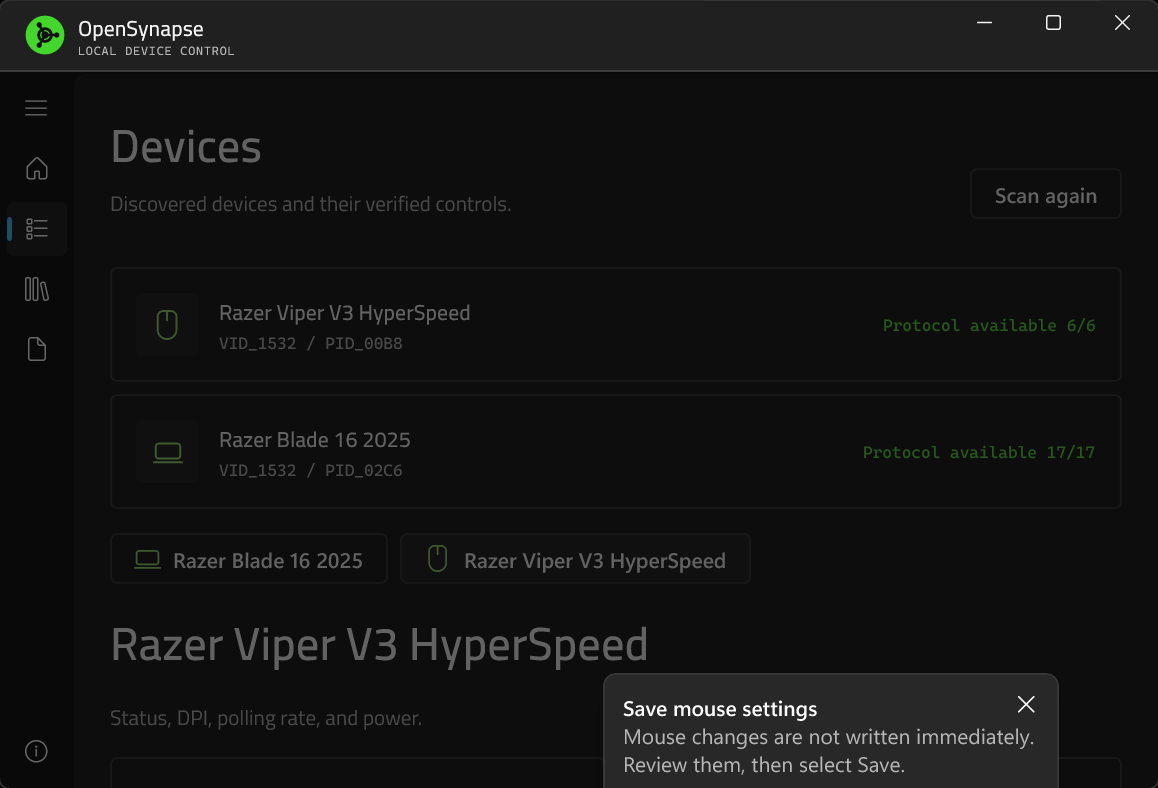
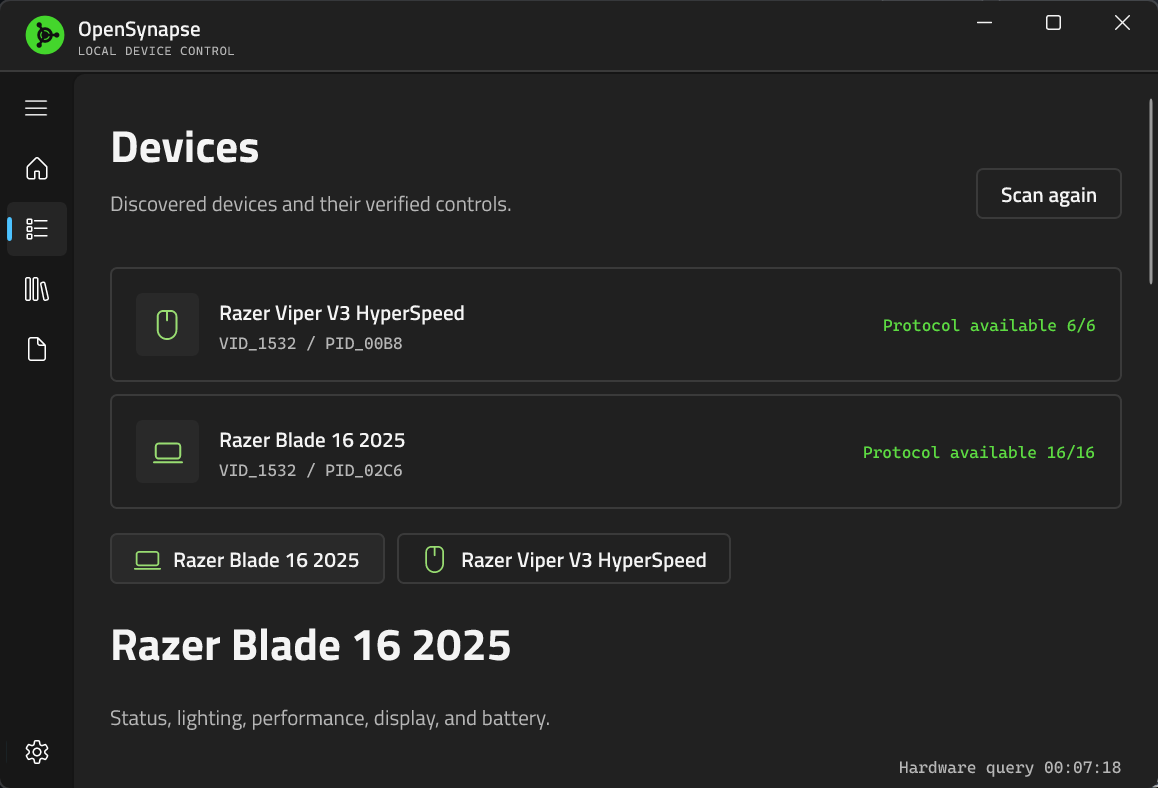
docs: rebuild bilingual project readme

diff --git a/README.md b/README.md
@@ -1,68 +1,89 @@
-# OpenSynapse
+<p align="center">
+  <img src="src/OpenSynapse.App/Assets/OpenSynapseLogo.svg" width="112" height="112" alt="OpenSynapse Logo">
+</p>
 
-[English](README.en.md) | 简体中文
+<h1 align="center">OpenSynapse</h1>
 
-OpenSynapse 是一款面向 Windows 11 的轻量级 Razer 设备控制工具。它可以在不让雷云常驻的情况下，管理已验证设备的灯光、性能和常用设置。
+<p align="center">面向 Windows 11 的轻量级 Razer 设备控制工具。</p>
 
-当前版本为 `1.0.2`，只支持经过实机验证的具体设备。OpenSynapse 不会根据相近型号猜测协议，也不会向未知设备发送控制命令。
+<p align="center">
+  <a href="https://github.com/A1mAssist/OpenSynapse/releases/latest"><img alt="最新版本" src="https://img.shields.io/github/v/release/A1mAssist/OpenSynapse?style=flat-square"></a>
+  <a href="LICENSE"><img alt="MIT License" src="https://img.shields.io/badge/license-MIT-44D62C?style=flat-square"></a>
+  <img alt="Windows 11 x64" src="https://img.shields.io/badge/Windows-11%20x64-0078D4?style=flat-square">
+</p>
+
+<p align="center">简体中文 · <a href="README.en.md">English</a></p>
+
+OpenSynapse 可以在不让 Razer Synapse 常驻的情况下，读取设备状态并管理经过实机验证的灯光、性能、显示、电池和按键功能。它不会根据相近型号猜测协议，也不会向未知设备发送控制命令。
+
+> 当前稳定版本：`v1.1.0`。仅支持下方列出的具体硬件与 USB 标识。
 
 ## 支持设备
 
-| 设备 | USB VID:PID | 状态 |
+| 设备 | USB VID:PID | 已验证能力 |
 |---|---|---|
-| Razer Blade 16 (2025) | `1532:02C6` | 已支持 |
-| Razer Viper V3 HyperSpeed | `1532:00B8` | 已支持 |
+| Razer Blade 16 (2025) | `1532:02C6` | 遥测、灯光、性能、风扇、显示、电池、Fn/M3/M4/M5 |
+| Razer Viper V3 HyperSpeed | `1532:00B8` | 电量、DPI、轮询率、休眠、板载按键映射 |
 
-## 主要功能
+## 功能
 
-### Blade 16 (2025)
+### Razer Blade 16 (2025)
 
 - 读取 CPU、GPU、内存、磁盘、风扇和设备状态。
-- 调整键盘亮度和 13 种键盘灯效：关闭、静态、呼吸、光谱循环、波浪、火焰、响应、涟漪、音频律动、环境感知、色轮、星光和双色潮汐。
-- 切换性能模式，并在 Custom 模式下调整 CPU Boost、GPU Boost 和 Max Fan。
-- 设置 `50%` 至 `80%` 的充电上限，或关闭限制。
-- 调整 Windows 内置屏支持的刷新率，切换触控板。
-- 后台处理已验证的 Fn 组合键、M3 游戏模式、M4 性能模式和 M5 麦克风静音指示灯。
-- 只读显示面板模式、SKU、Local Dimming 等平台状态。
+- 调整键盘亮度，并使用关闭、静态、呼吸、光谱循环、波浪、火焰、响应、涟漪、音频律动、环境感知、色轮、星光和双色潮汐灯效。
+- 切换性能模式；在自定义模式下调整 CPU Boost、GPU Boost 和 Max Fan。
+- 使用自动风扇或手动风扇控制，设置 `50%` 至 `80%` 的充电上限。
+- 切换内置显示器支持的刷新率和触控板状态。
+- 后台处理已验证的 Fn 组合键、M3 游戏模式、M4 性能模式以及 M5 麦克风静音指示灯。
+- 显示面板模式、SKU 等只读平台状态。
 
-### Viper V3 HyperSpeed
+### Razer Viper V3 HyperSpeed
 
 - 读取电量、低电量阈值、轮询率、当前 DPI、休眠时间和 DPI 档位。
-- 调整 `125 / 500 / 1000 Hz` 轮询率。
-- 调整 `100..30000`、步进 `50` 的 X/Y DPI，配置最多 5 档 DPI。
-- 读取并编辑固定 Profile 1 的 Normal / HyperShift 板载映射。
+- 设置 `125 / 500 / 1000 Hz` 轮询率。
+- 设置 `100..30000`、步进 `50` 的 X/Y DPI，并配置最多 5 档 DPI。
+- 读取和编辑固定 Profile 1 的 Normal / HyperShift 板载映射。
 - 支持关闭、鼠标键、键盘按键和双击等已验证映射动作。
 
-低电量阈值仅展示，不提供写入。当前设备不支持 `2000 / 4000 / 8000 Hz` HyperPolling。
+低电量阈值保持只读；Viper V3 HyperSpeed 不支持 `2000 / 4000 / 8000 Hz` HyperPolling。
 
 ## 界面预览
 
-![OpenSynapse 中文 Viper 配置页](screenshots/viper-mappings-zh.png)
+| 概览 | 设备 |
+|---|---|
+| ![OpenSynapse 中文概览页面](screenshots/overview-zh.png) | ![OpenSynapse 中文设备页面](screenshots/devices-zh.png) |
 
-## 安装与运行
+| Blade 控制 | 设置 |
+|---|---|
+| ![OpenSynapse 中文 Blade 控制页面](screenshots/blade-zh.png) | ![OpenSynapse 中文设置页面](screenshots/settings-zh.png) |
 
-1. 从 [Releases](https://github.com/A1mAssist/OpenSynapse/releases) 下载最新的 `OpenSynapse-win-Setup.exe`。
-2. 运行安装包；应用安装到当前用户目录，不需要管理员权限。
-3. 便携版仍可使用，但旧压缩包不支持应用内自动更新。
+## 安装
 
-首次探测设备时建议退出 Razer Synapse。两者可能争用同一个 HID 控制通道；OpenSynapse 会报告访问失败，但不会结束 Synapse 进程。
+1. 从 [GitHub Releases](https://github.com/A1mAssist/OpenSynapse/releases/latest) 下载 `OpenSynapse-win-Setup.exe`。
+2. 运行安装包。应用安装到当前用户目录，不需要管理员权限。
+3. 如需免安装使用，可下载 `OpenSynapse-win-Portable.zip`；自动更新功能仅面向安装版。
 
-OpenSynapse 不需要 Razer Synapse、AppEngine 或 `mapping_engine.dll`。Blade 的 Fn、M3、M4 和 M5 功能仍依赖 Product 710 的 Razer 设备驱动；卸载 Synapse 时请保留这些驱动。驱动不属于 OpenSynapse，仓库和发布包均不分发。
+首次探测设备前建议退出 Razer Synapse，避免两个程序争用同一个 HID 控制通道。OpenSynapse 会报告访问失败，但不会结束 Synapse 进程。
 
-## 明确不在当前范围内
+### 驱动边界
+
+OpenSynapse 不需要 Razer Synapse、AppEngine 或 `mapping_engine.dll`。Blade 的 Fn、M3、M4 和 M5 功能仍需要 Product 710 的 Razer 设备驱动；卸载 Synapse 时请保留相关驱动。OpenSynapse 不分发 Razer 驱动。
+
+## 当前不包含
 
 - 固件更新、Razer 账号和云服务。
 - THX Spatial Audio、EQ、音量均衡和语音清晰度。
 - Chroma Studio、高级宏编辑器、GPU MUX 和 AMD Curve Optimizer。
-- 未经验证的电池策略写入，以及 Viper 低电量阈值、电池类型和 `2K / 4K / 8K` 轮询率写入。
+- 未经实机验证的设备或协议写入。
 
 ## 从源码构建
 
-需要 Windows 11 x64、.NET 10 SDK 和 Windows SDK `10.0.26100`。
+需要 Windows 11 x64、[.NET 10 SDK](https://dotnet.microsoft.com/download/dotnet/10.0) 和 Windows SDK `10.0.26100`。
 
 ```powershell
 dotnet restore OpenSynapse.slnx
 dotnet build OpenSynapse.slnx -c Release
+dotnet test OpenSynapse.slnx -c Release --no-build
 dotnet build src/OpenSynapse.App/OpenSynapse.App.csproj -c Release -p:Platform=x64
 ```
 
@@ -75,10 +96,14 @@ dotnet build src/OpenSynapse.App/OpenSynapse.App.csproj -c Release -p:Platform=x
 生成安装包、便携包和 Velopack 更新资产：
 
 ```powershell
-.\scripts\Publish-VelopackRelease.ps1 -Version 1.0.3
+.\scripts\Publish-VelopackRelease.ps1 -Version 1.1.0
 ```
 
-设置 `GITHUB_TOKEN` 后追加 `-Upload`，即可创建公开 GitHub Release 并上传更新源资产。
+发布包没有代码签名证书，Windows SmartScreen 可能显示警告。
+
+## 参与贡献
+
+提交源码、测试或文档前请阅读 [CONTRIBUTING.md](CONTRIBUTING.md)。构建输出、日志、抓包、逆向工程目录、私钥、令牌和本机配置不得提交到仓库。
 
 ## 许可与致谢
 
@@ -86,4 +111,4 @@ dotnet build src/OpenSynapse.App/OpenSynapse.App.csproj -c Release -p:Platform=x
 
 协议实现参考并交叉验证了 [OpenRazer](https://github.com/openrazer/openrazer)、[OpenRGB](https://gitlab.com/CalcProgrammer1/OpenRGB) 及其他公开实现。OpenSynapse 与 Razer Inc. 无隶属或认可关系，Razer 及相关产品名称是其各自所有者的商标。
 
-Made with ❤ in C# by [A1mAssist](https://github.com/A1mAssist)。
+Made with ❤ in C# by [A1mAssist](https://github.com/A1mAssist).

diff --git a/README.en.md b/README.en.md
@@ -1,31 +1,43 @@
-# OpenSynapse
+<p align="center">
+  <img src="src/OpenSynapse.App/Assets/OpenSynapseLogo.svg" width="112" height="112" alt="OpenSynapse Logo">
+</p>
 
-English | [简体中文](README.md)
+<h1 align="center">OpenSynapse</h1>
 
-OpenSynapse is a lightweight Razer device controller for Windows 11. It manages verified lighting, performance, and everyday settings without requiring Razer Synapse to remain running.
+<p align="center">A lightweight Razer device controller for Windows 11.</p>
 
-The current release is `1.0.2` and supports only the exact devices verified on hardware. OpenSynapse does not infer protocols from similar model names and does not send control commands to unknown devices.
+<p align="center">
+  <a href="https://github.com/A1mAssist/OpenSynapse/releases/latest"><img alt="Latest release" src="https://img.shields.io/github/v/release/A1mAssist/OpenSynapse?style=flat-square"></a>
+  <a href="LICENSE"><img alt="MIT License" src="https://img.shields.io/badge/license-MIT-44D62C?style=flat-square"></a>
+  <img alt="Windows 11 x64" src="https://img.shields.io/badge/Windows-11%20x64-0078D4?style=flat-square">
+</p>
+
+<p align="center"><a href="README.md">简体中文</a> · English</p>
+
+OpenSynapse reads device state and manages hardware-verified lighting, performance, display, battery, and key functions without keeping Razer Synapse running. It never infers protocols from similar model names or sends control commands to unknown devices.
+
+> Current stable release: `v1.1.0`. Only the exact hardware and USB identifiers listed below are supported.
 
 ## Supported devices
 
-| Device | USB VID:PID | Status |
+| Device | USB VID:PID | Verified capabilities |
 |---|---|---|
-| Razer Blade 16 (2025) | `1532:02C6` | Supported |
-| Razer Viper V3 HyperSpeed | `1532:00B8` | Supported |
+| Razer Blade 16 (2025) | `1532:02C6` | Telemetry, lighting, performance, fans, display, battery, Fn/M3/M4/M5 |
+| Razer Viper V3 HyperSpeed | `1532:00B8` | Battery, DPI, polling, sleep, onboard button mappings |
 
 ## Features
 
-### Blade 16 (2025)
+### Razer Blade 16 (2025)
 
 - Read CPU, GPU, memory, storage, fan, and device status.
-- Adjust keyboard brightness and use 13 keyboard effects: Off, Static, Breathing, Spectrum, Wave, Fire, Reactive, Ripple, Audio Meter, Ambient, Wheel, Starlight, and two-color Tidal.
+- Adjust keyboard brightness and use Off, Static, Breathing, Spectrum, Wave, Fire, Reactive, Ripple, Audio Meter, Ambient, Wheel, Starlight, and two-color Tidal effects.
 - Select performance modes and configure CPU Boost, GPU Boost, and Max Fan in Custom mode.
-- Set a charge limit from `50%` to `80%`, or disable the limit.
-- Select a refresh rate supported by the Windows internal display and toggle the touchpad.
+- Use automatic or manual fan control and set a charge limit from `50%` to `80%`.
+- Select a refresh rate supported by the internal display and toggle the touchpad.
 - Handle verified Fn shortcuts, M3 Gaming Mode, M4 performance mode, and the M5 microphone-mute indicator in the background.
-- Show panel mode, SKU, Local Dimming, and other platform fields as read-only state.
+- Show panel mode, SKU, and other platform fields as read-only state.
 
-### Viper V3 HyperSpeed
+### Razer Viper V3 HyperSpeed
 
 - Read battery level, low-battery threshold, polling rate, current DPI, sleep timeout, and DPI stages.
 - Set `125 / 500 / 1000 Hz` polling.
@@ -33,36 +45,45 @@ The current release is `1.0.2` and supports only the exact devices verified on h
 - Read and edit Normal / HyperShift onboard mappings in fixed Profile 1.
 - Use verified Off, mouse-button, keyboard-key, and double-click mapping actions.
 
-The low-battery threshold is read only. This device does not support `2000 / 4000 / 8000 Hz` HyperPolling.
+The low-battery threshold remains read only. Viper V3 HyperSpeed does not support `2000 / 4000 / 8000 Hz` HyperPolling.
 
-## Interface preview
+## Screenshots
 
-![OpenSynapse English device page](screenshots/devices-en.png)
+| Overview | Devices |
+|---|---|
+| ![OpenSynapse English overview page](screenshots/overview-en.png) | ![OpenSynapse English devices page](screenshots/devices-en.png) |
 
-## Install and run
+| Blade controls | Settings |
+|---|---|
+| ![OpenSynapse English Blade controls](screenshots/blade-en.png) | ![OpenSynapse English settings page](screenshots/settings-en.png) |
 
-1. Download the latest `OpenSynapse-win-Setup.exe` from [Releases](https://github.com/A1mAssist/OpenSynapse/releases).
+## Installation
+
+1. Download `OpenSynapse-win-Setup.exe` from [GitHub Releases](https://github.com/A1mAssist/OpenSynapse/releases/latest).
 2. Run the installer. OpenSynapse installs for the current user and does not require administrator privileges.
-3. A portable build remains available, but older archive builds cannot use in-app updates.
+3. For a no-install build, download `OpenSynapse-win-Portable.zip`. Automatic updates are intended for the installed build.
 
-Exit Razer Synapse before the first device scan. Both applications can contend for the same HID control channel. OpenSynapse reports access failures but never terminates the Synapse process.
+Exit Razer Synapse before the first device scan to avoid both applications contending for the same HID control channel. OpenSynapse reports access failures but never terminates the Synapse process.
 
-OpenSynapse does not require Razer Synapse, AppEngine, or `mapping_engine.dll`. Blade Fn, M3, M4, and M5 support still requires the Product 710 Razer device drivers; keep those drivers installed when removing Synapse. The drivers are not part of OpenSynapse and are not redistributed in the repository or release archive.
+### Driver boundary
+
+OpenSynapse does not require Razer Synapse, AppEngine, or `mapping_engine.dll`. Blade Fn, M3, M4, and M5 support still requires the Product 710 Razer device drivers; keep those drivers when removing Synapse. OpenSynapse does not redistribute Razer drivers.
 
 ## Out of scope
 
 - Firmware updates, Razer accounts, and cloud services.
 - THX Spatial Audio, EQ, volume leveling, and voice clarity.
 - Chroma Studio, advanced macro editing, GPU MUX, and AMD Curve Optimizer.
-- Unverified battery-policy writes, plus Viper low-battery threshold, battery type, and `2K / 4K / 8K` polling writes.
+- Writes for devices or protocols that have not passed hardware validation.
 
 ## Build from source
 
-Building requires Windows 11 x64, the .NET 10 SDK, and Windows SDK `10.0.26100`.
+Building requires Windows 11 x64, the [.NET 10 SDK](https://dotnet.microsoft.com/download/dotnet/10.0), and Windows SDK `10.0.26100`.
 
 ```powershell
 dotnet restore OpenSynapse.slnx
 dotnet build OpenSynapse.slnx -c Release
+dotnet test OpenSynapse.slnx -c Release --no-build
 dotnet build src/OpenSynapse.App/OpenSynapse.App.csproj -c Release -p:Platform=x64
 ```
 
@@ -72,13 +93,17 @@ Run the local build:
 & '.\src\OpenSynapse.App\bin\x64\Release\net10.0-windows10.0.26100.0\OpenSynapse.App.exe'
 ```
 
-Build the installer, portable package, and Velopack update assets:
+Build the installer, portable archive, and Velopack update assets:
 
 ```powershell
-.\scripts\Publish-VelopackRelease.ps1 -Version 1.0.3
+.\scripts\Publish-VelopackRelease.ps1 -Version 1.1.0
 ```
 
-Set `GITHUB_TOKEN` and add `-Upload` to create a public GitHub Release and upload the update feed assets.
+Release packages are not code signed, so Windows SmartScreen may display a warning.
+
+## Contributing
+
+Read [CONTRIBUTING.md](CONTRIBUTING.md) before submitting source, tests, or documentation. Build output, logs, captures, reverse-engineering workspaces, private keys, tokens, and machine-local configuration must never be committed.
 
 ## License and acknowledgements
 

diff --git a/CONTRIBUTING.md b/CONTRIBUTING.md
@@ -1,0 +1,64 @@
+# Contributing to OpenSynapse
+
+OpenSynapse controls real hardware. Keep changes small, traceable, and backed by tests or hardware evidence.
+
+## What belongs in Git
+
+Commit only files needed to build, test, document, or license the project:
+
+- source code and project files;
+- tests and deterministic test data;
+- device manifests and verified runtime configuration;
+- documentation, localized screenshots, product artwork, and third-party license files;
+- release/build scripts that contain no credentials or machine-specific paths.
+
+Do not commit:
+
+- `bin`, `obj`, `artifacts`, `dist`, `TestResults`, coverage output, installers, portable archives, NuGet packages, executables, DLLs, PDBs, or generated WinUI files;
+- `.vs`, `.idea`, `.vscode`, user settings, caches, temporary files, dumps, logs, ETW traces, USB captures, or local diagnostics;
+- Ghidra projects, extracted proprietary application files, reverse-engineering workspaces, or unreviewed protocol captures;
+- API tokens, passwords, private keys, signing certificates, `.env` files, device paths, usernames, or absolute paths tied to one workstation;
+- Razer binaries, drivers, firmware, or other proprietary files that the project is not licensed to redistribute.
+
+Release binaries belong on GitHub Releases, not in Git history.
+
+## Screenshots and documentation
+
+- Store README screenshots in `screenshots/`.
+- Use explicit language suffixes such as `-zh.png` and `-en.png`.
+- Remove personal information, notifications, account identifiers, device serial numbers, and unrelated windows before committing.
+- Keep `README.md` and `README.en.md` aligned, while using screenshots from the matching language only.
+- Reuse `src/OpenSynapse.App/Assets/OpenSynapseLogo.svg` as the canonical product logo.
+
+## Before every commit
+
+Run the smallest relevant tests, then run these repository checks from PowerShell:
+
+```powershell
+git status --short --untracked-files=all
+git diff --check
+dotnet test OpenSynapse.slnx -c Release
+```
+
+For application or packaging changes, also run:
+
+```powershell
+dotnet build src/OpenSynapse.App/OpenSynapse.App.csproj -c Release -p:Platform=x64
+```
+
+Review the staged file list before committing:
+
+```powershell
+git diff --cached --name-status
+```
+
+If the list contains a generated binary, capture, log, secret, local tool directory, or unrelated change, remove it from the commit. Never use `git add .` without reviewing the result.
+
+## Commit rules
+
+- One commit should describe one coherent change.
+- Use an imperative, specific subject such as `fix: preserve Fn key release state`.
+- Do not commit an unverified hardware write as production-ready.
+- Do not silently ignore unknown protocol fields or unsupported device identifiers.
+- Preserve unrelated user changes in a dirty worktree.
+- Do not rewrite public history or move a published version tag unless correcting a confirmed release error.
